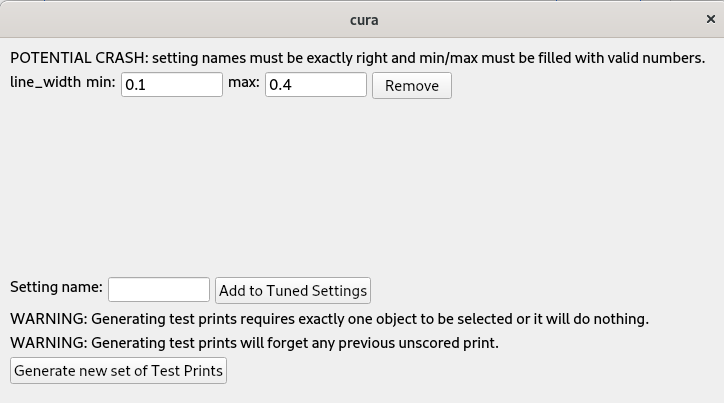
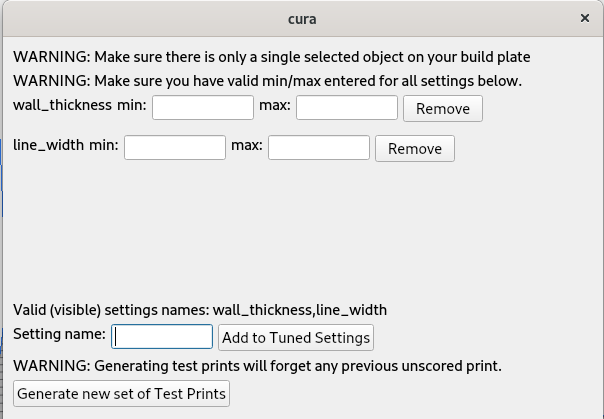
Automatically detect which settings are visible.

diff --git a/GeneratePrints.qml b/GeneratePrints.qml
@@ -16,7 +16,10 @@ UM.Dialog
         spacing: 5
 
         Label {
-            text: "POTENTIAL CRASH: setting names must be exactly right and min/max must be filled with valid numbers."
+            text: "WARNING: Make sure there is only a single selected object on your build plate"
+        }
+        Label {
+            text: "WARNING: Make sure you have valid min/max entered for all settings below."
         }
         ListView {
             id: listview
@@ -54,6 +57,10 @@ UM.Dialog
                 }
             }
         }
+        Label {
+            id: "valid_settings_names"
+            text: ""
+        }
         Row {
             spacing: 5
             Label {
@@ -66,12 +73,13 @@ UM.Dialog
                 id: setting_add_button
                 text: "Add to Tuned Settings"
                 onClicked: {
-                     listview.model.append({ "name": setting_name.text, "min": "", "max":""})
+                    if (manager.validKeys.includes(setting_name.text)) {
+                        if(!listview.model.contains("name", settings_name.text)) {
+                            listview.model.append({ "name": setting_name.text, "min": "", "max":""})
+                        }
+                    }
                  }
             }
-        }
-        Label {
-            text: "WARNING: Generating test prints requires exactly one object to be selected or it will do nothing."
         }
         Label {
             text: "WARNING: Generating test prints will forget any previous unscored print."
@@ -83,5 +91,8 @@ UM.Dialog
                 base.close()
             }
         }
+    }
+    onVisibleChanged: {
+        valid_settings_names.text = "Valid (visible) settings names: " + manager.validKeys
     }
 }

diff --git a/PrintunaExtension.py b/PrintunaExtension.py
@@ -35,7 +35,6 @@ class PrintunaExtension(Extension, QObject):
         self._application = Application.getInstance()
 
         self._parameters_list_model = GenericListModel(["name", "min", "max"])
-        self._parameters_list_model.append({"name": "line_width", "min": "0.1", "max": "0.4"})
         self._active_trials_model = GenericListModel(["id", "score"])
         self.optuna_study = None
         self.resetStudy()
@@ -58,6 +57,11 @@ class PrintunaExtension(Extension, QObject):
     def showGeneratePrints(self):
         if not self.generate_prints_window:  # Don't create more than one.
             self.generate_prints_window = self._createDialog("GeneratePrints.qml")
+
+        # If none are selected, prefill with all valid settings
+        if len(self._parameters_list_model.items) == 0:
+            for key in self.validKeys:
+                self._parameters_list_model.append({"name": key, "min": "", "max": ""})
         self.generate_prints_window.show()
 
     def configureSingleObject(self, node):
@@ -70,7 +74,6 @@ class PrintunaExtension(Extension, QObject):
             max = float(setting["max"])
             value = trial.suggest_float(name, min, max)
             container.setProperty(name, "value", value)
-
 
     @pyqtSlot()
     def generatePrints(self):
@@ -178,3 +181,7 @@ class PrintunaExtension(Extension, QObject):
     @pyqtProperty(QObject, constant=True)
     def ActiveTrialsModel(self):
         return self._active_trials_model
+
+    @pyqtProperty('QStringList')
+    def validKeys(self):
+        return list(self._getAllSelectedNodes()[0].callDecoration('getStack').getContainer(0).getAllKeys())

diff --git a/GenericListModel.py b/GenericListModel.py
@@ -45,3 +45,9 @@ class GenericListModel(QtCore.QAbstractListModel):
 
     def roleNames(self):
         return {key: value.encode('utf-8') for key, value in enumerate(self.schema)}
+
+    def contains(self, key, value):
+        for item in self.items:
+            if item[key] == value:
+                return True
+        return False

diff --git a/README.md b/README.md
@@ -52,7 +52,7 @@ Note that this means that any setting which cannot be controlled per-model (such
 **cannot be tuned by PrinTuna**.  If this makes you sad, complain on [this Cura issue](https://github.com/Ultimaker/Cura/issues/3193).
 
 ### 2. Generate Prints
-Before we continue, it is important to make sure that the test object is selected **selected**.
+Before we continue, it is important to make sure that the test object is **selected**.
 
 In the Extensions menu, you will see three options under PrinTuna (if not, this means you haven't properly installed the plugin)
 
@@ -62,17 +62,13 @@ Select the "Generate Prints" menu.  This will pop open the following dialog box:
 
 ![](doc/generate_prints.png)
 
-Now, we need to configure which settings we want printuna to tune.  We can see in the above screenshot that currently
-we have configured to tune just the **line_width** setting, between the bounds of 0.1 and 0.4.
+Now, we need to configure which settings we want printuna to tune. By default printuna will tune *all* visible
+per-object settings (in the screenshot above, this is "wall_thickness" and "line_width").
 
-Note that the name "line_width" is **not** the same as the name of the setting as it shows up in the Cura UI. It is important that you
-put in "line_width" here and NOT "Line Width", or you will get a crash.  The situation is the same for all other settings as well.
+We need to make sure to enter valid min/max values for each setting we want to tune or it will crash 
+(don't leave those boxes empty!).
 
-Unfortunately, I don't know an easy way to figure out the correspondence between these two forms of the name.  
-https://github.com/Ultimaker/Cura/blob/78ecb7ec9a0c1deae6c322a286a13ee70a07e379/plugins/LegacyProfileReader/DictionaryOfDoom.json
-may help you to find the name of a setting you are looking for.
-
-PrinTuna only supports tuning floating point settings yet. Please complain in a bug report if this upsets you.
+PrinTuna only supports tuning floating point settings currently. Please complain in a bug report if this upsets you.
 
 Once you have chosen the settings/ranges you want to tune, click the "Generate new set of Test Prints" button. You
 should now see your model tiled on the build surface, with each copy having different settings:
